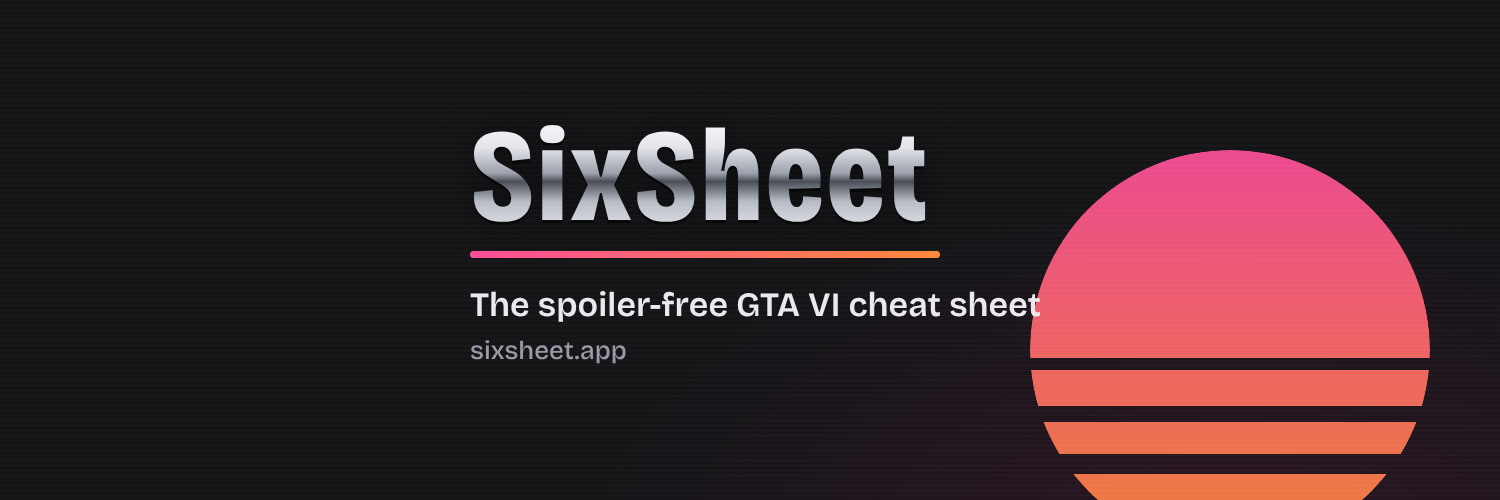
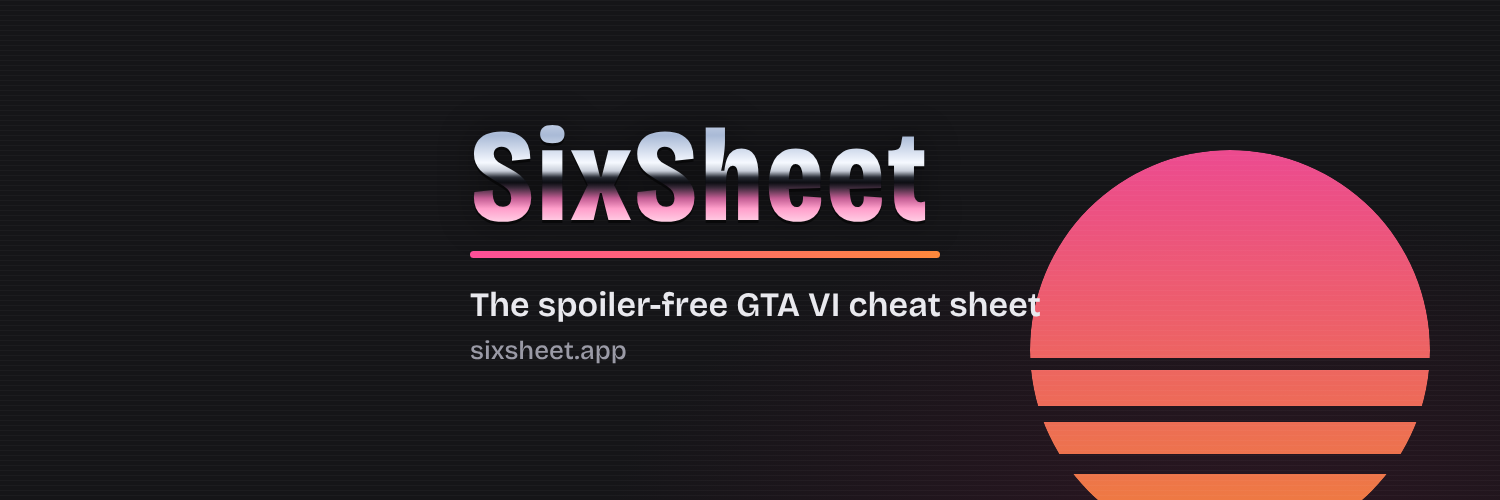
auditor: real chrome finish that reacts to scroll and hover
- Chrome gradient with sky, dark horizon and pink reflection, plus bevel
- Reflection slides as you scroll or move over the logo or countdown; glint sweep
- Brand images updated to the same chrome

Claude-Session: https://claude.ai/code/session_01UR4vkfQZzNAyaszMML9NGR

Changed region(s): [[0.3067, 0.24, 0.6133, 0.45]]

diff --git a/index.html b/index.html
@@ -27,8 +27,12 @@
   --pink:#ff4f9a;--orange:#ff8a3c;
   --sun:linear-gradient(100deg,#ff4f9a 0%,#ff6a6a 50%,#ff8a3c 100%);
   --chrome:linear-gradient(180deg,#ffffff 0%,#e3e5ea 28%,#9ba0ab 47%,#4a4e57 53%,#b9bdc6 68%,#f5f6f8 100%);
+  --chrome-hi:linear-gradient(180deg,#ffffff 0%,#eef3ff 12%,#a9bad6 30%,#f6f9ff 43%,#c7cdd8 47%,#262a33 50%,#0c0d12 52.5%,#3b2a3a 55%,#c25d93 60%,#ff9fcb 65%,#ffe3ef 74%,#ffffff 82%,#d9dde6 90%,#8e95a3 100%);
+  --glint:linear-gradient(105deg,transparent 40%,rgba(255,255,255,.0) 44%,rgba(255,255,255,.95) 50%,rgba(255,255,255,0) 56%,transparent 60%);
+  --cy:50%;
   --pad:20px;--bar:64px;
 }
+@property --gx{syntax:"<percentage>";inherits:false;initial-value:170%}
 *{box-sizing:border-box}
 html{-webkit-text-size-adjust:100%}
 body{margin:0;background:var(--paper);color:var(--ink);font:400 17px/1.45 "Bricolage",system-ui,-apple-system,"Segoe UI",sans-serif;padding-top:env(safe-area-inset-top)}
@@ -45,12 +49,14 @@ button{font:inherit;color:inherit;background:none;border:0;padding:0;cursor:poin
 /* ---------- frame ---------- */
 .page{position:relative;z-index:1;max-width:640px;margin:0 auto;padding:0 var(--pad) calc(var(--bar) + 40px + env(safe-area-inset-bottom))}
 .mast{display:flex;align-items:center;justify-content:space-between;gap:12px;padding:18px 0 6px}
-.mark{position:relative;display:inline-block;font-weight:800;font-stretch:75%;font-size:31px;line-height:1.05;letter-spacing:.005em;text-decoration:none;padding-bottom:9px;
-  color:#e3e5ea;background:linear-gradient(110deg,transparent 42%,rgba(255,255,255,.95) 50%,transparent 58%) 160% 0/250% 100% no-repeat,var(--chrome);
-  -webkit-background-clip:text;background-clip:text;-webkit-text-fill-color:transparent;filter:drop-shadow(0 1px 0 rgba(0,0,0,.6))}
-.mark::after{content:"";position:absolute;left:1px;right:1px;bottom:0;height:3px;border-radius:2px;background:var(--sun)}
-.mark:hover,.mark.glint{animation:glint 1.1s cubic-bezier(.3,.6,.3,1)}
-@keyframes glint{from{background-position:160% 0,0 0}to{background-position:-60% 0,0 0}}
+.chrome{background:var(--glint) var(--gx) 0/260% 100% no-repeat,var(--chrome-hi) 0 var(--cy)/100% 155% no-repeat;
+  -webkit-background-clip:text;background-clip:text;-webkit-text-fill-color:transparent;color:#e3e5ea;
+  filter:drop-shadow(0 -1px 0 rgba(255,255,255,.35)) drop-shadow(0 1.5px 0 #07080b) drop-shadow(0 0 14px rgba(255,79,154,.22));
+  transition:background-position .45s cubic-bezier(.2,.7,.2,1)}
+.chrome.glint{animation:glint .9s cubic-bezier(.3,.6,.3,1)}
+@keyframes glint{from{--gx:170%}to{--gx:-70%}}
+.mark{position:relative;display:inline-block;font-weight:800;font-stretch:75%;font-size:32px;line-height:1.05;letter-spacing:.01em;text-decoration:none;padding-bottom:9px}
+.mark::after{content:"";position:absolute;left:1px;right:1px;bottom:0;height:3px;border-radius:2px;background:var(--sun);box-shadow:0 0 10px rgba(255,79,154,.45)}
 .tools{display:flex;gap:6px}
 .tool{display:flex;align-items:center;gap:7px;height:38px;padding:0 10px;border:1.5px solid var(--line);border-radius:8px;font-size:14px;font-weight:600;color:var(--dim)}
 .tool svg{width:19px;height:19px;fill:none;stroke:currentColor;stroke-width:2;stroke-linecap:round;stroke-linejoin:round}
@@ -61,10 +67,10 @@ button{font:inherit;color:inherit;background:none;border:0;padding:0;cursor:poin
 /* ---------- hero ---------- */
 .hero{padding:22px 0 8px}
 .cd{display:flex;gap:.17em;font-variant-numeric:tabular-nums;font-size:clamp(46px,15.6vw,84px);font-weight:800;font-stretch:75%;line-height:.9;letter-spacing:-.01em}
-.cd b{display:inline-block;min-width:2ch;text-align:right;font-weight:inherit;background:var(--chrome);-webkit-background-clip:text;background-clip:text;-webkit-text-fill-color:transparent;color:#e3e5ea}
+.cd b{display:inline-block;min-width:2ch;text-align:right;font-weight:inherit}
 .cd span:first-child b{min-width:1ch}
 .cd i{font-style:normal;font-size:.36em;font-weight:600;color:var(--dim);margin-left:.07em}
-.cd .sec b{background:var(--sun);-webkit-background-clip:text;background-clip:text}
+.cd .sec b{background:var(--sun);-webkit-background-clip:text;background-clip:text;-webkit-text-fill-color:transparent;filter:drop-shadow(0 0 14px rgba(255,79,154,.3));animation:none}
 .cd-sub{margin:14px 0 14px;color:var(--dim)}
 .cd-sub strong{color:var(--ink);font-weight:600}
 .seg{display:inline-flex;border:1.5px solid var(--line);border-radius:8px;overflow:hidden}
@@ -254,7 +260,7 @@ body.shielded .sp:not(.open)>.spc{display:none}
 <div class="page">
   <aside class="rail">
     <header class="mast">
-      <a class="mark" id="mark" href="#prep" aria-label="SixSheet home">SixSheet</a>
+      <a class="mark chrome" id="mark" href="#prep" aria-label="SixSheet home">SixSheet</a>
       <div class="tools">
         <button class="tool" id="shield" type="button" aria-pressed="true"><svg viewBox="0 0 24 24" aria-hidden="true"><path d="M2.500 12s3.500-6.500 9.500-6.500 9.500 6.500 9.500 6.500-3.500 6.500-9.500 6.500S2.500 12 2.500 12z"/><circle cx="12" cy="12" r="2.800"/><path id="slash" d="M4 4l16 16"/></svg><span id="shieldLabel">Spoilers hidden</span></button>
         <button class="tool" id="share" type="button" aria-label="Copy link to this page"><svg viewBox="0 0 24 24" aria-hidden="true"><path d="M12 15V3.500M7.500 7.500L12 3l4.500 4.500M5 12.500V19a1.500 1.500 0 001.500 1.500h11A1.500 1.500 0 0019 19v-6.500"/></svg></button>
@@ -427,7 +433,7 @@ body.shielded .sp:not(.open)>.spc{display:none}
     var hasLocal = !!D.launch.localDate;
     h.innerHTML =
       '<div class="cd" role="timer" aria-label="Time until GTA VI unlocks">' +
-        '<span><b id="cd-d">0</b><i>d</i></span><span><b id="cd-h">00</b><i>h</i></span><span><b id="cd-m">00</b><i>m</i></span><span class="sec"><b id="cd-s">00</b><i>s</i></span>' +
+        '<span><b class="chrome" id="cd-d">0</b><i>d</i></span><span><b class="chrome" id="cd-h">00</b><i>h</i></span><span><b class="chrome" id="cd-m">00</b><i>m</i></span><span class="sec"><b id="cd-s">00</b><i>s</i></span>' +
       '</div>' +
       '<p class="cd-sub">until GTA VI unlocks. <strong id="cdWhen"></strong></p>' +
       (hasLocal ? '<div class="seg" id="region" role="group" aria-label="Where your account is"><button type="button" data-r="us">US account</button><button type="button" data-r="local">Elsewhere</button></div>' : '') +
@@ -683,12 +689,40 @@ body.shielded .sp:not(.open)>.spc{display:none}
     }
   }, true);
   window.addEventListener('hashchange', route);
-  var glintAt = 0, mk = $('mark');
-  mk.addEventListener('animationend', function(){ mk.classList.remove('glint'); });
-  window.addEventListener('scroll', function(){
-    var now = Date.now(); if (now - glintAt < 3000) return; glintAt = now;
-    mk.classList.remove('glint'); void mk.offsetWidth; mk.classList.add('glint');
-  }, {passive: true});
+  // chrome: the reflection slides as you scroll or move over it, and a glint sweeps across
+  var root = document.documentElement, glintAt = 0, raf = 0, reduce = false;
+  try { reduce = matchMedia('(prefers-reduced-motion: reduce)').matches; } catch (e) {}
+  function setCy(v){ root.style.setProperty('--cy', v.toFixed(1) + '%'); }
+  function glint(force){
+    var now = Date.now(); if (reduce || (!force && now - glintAt < 2500)) return; glintAt = now;
+    Array.prototype.forEach.call(document.querySelectorAll('.chrome'), function(el, i){
+      el.classList.remove('glint'); void el.offsetWidth;
+      setTimeout(function(){ el.classList.add('glint'); }, i * 70);
+    });
+  }
+  document.addEventListener('animationend', function(e){ if (e.target.classList && e.target.classList.contains('chrome')) e.target.classList.remove('glint'); });
+  if (!reduce) {
+    window.addEventListener('scroll', function(){
+      if (raf) return;
+      raf = requestAnimationFrame(function(){
+        raf = 0;
+        var t = (window.scrollY / 420) % 2, w = t < 1 ? t : 2 - t;   // back and forth
+        setCy(34 + w * 32);
+        glint(false);
+      });
+    }, {passive: true});
+    var mk = $('mark');
+    mk.addEventListener('pointerenter', function(){ glint(true); });
+    mk.addEventListener('pointermove', function(e){
+      var r = mk.getBoundingClientRect(); setCy(34 + Math.max(0, Math.min(1, (e.clientX - r.left) / r.width)) * 32);
+    });
+    var cdBox = $('hero');
+    cdBox.addEventListener('pointermove', function(e){
+      if (!e.target.closest('.cd')) return;
+      var r = cdBox.getBoundingClientRect(); setCy(34 + Math.max(0, Math.min(1, (e.clientX - r.left) / r.width)) * 32);
+    });
+    setTimeout(function(){ glint(true); }, 600);
+  }
 
   function renderAll(){
     renderPrep(); renderFit(); renderFacts(); renderGear();

diff --git a/tools/template.html b/tools/template.html
@@ -26,8 +26,12 @@
   --pink:#ff4f9a;--orange:#ff8a3c;
   --sun:linear-gradient(100deg,#ff4f9a 0%,#ff6a6a 50%,#ff8a3c 100%);
   --chrome:linear-gradient(180deg,#ffffff 0%,#e3e5ea 28%,#9ba0ab 47%,#4a4e57 53%,#b9bdc6 68%,#f5f6f8 100%);
+  --chrome-hi:linear-gradient(180deg,#ffffff 0%,#eef3ff 12%,#a9bad6 30%,#f6f9ff 43%,#c7cdd8 47%,#262a33 50%,#0c0d12 52.5%,#3b2a3a 55%,#c25d93 60%,#ff9fcb 65%,#ffe3ef 74%,#ffffff 82%,#d9dde6 90%,#8e95a3 100%);
+  --glint:linear-gradient(105deg,transparent 40%,rgba(255,255,255,.0) 44%,rgba(255,255,255,.95) 50%,rgba(255,255,255,0) 56%,transparent 60%);
+  --cy:50%;
   --pad:20px;--bar:64px;
 }
+@property --gx{syntax:"<percentage>";inherits:false;initial-value:170%}
 *{box-sizing:border-box}
 html{-webkit-text-size-adjust:100%}
 body{margin:0;background:var(--paper);color:var(--ink);font:400 17px/1.45 "Bricolage",system-ui,-apple-system,"Segoe UI",sans-serif;padding-top:env(safe-area-inset-top)}
@@ -44,12 +48,14 @@ button{font:inherit;color:inherit;background:none;border:0;padding:0;cursor:poin
 /* ---------- frame ---------- */
 .page{position:relative;z-index:1;max-width:640px;margin:0 auto;padding:0 var(--pad) calc(var(--bar) + 40px + env(safe-area-inset-bottom))}
 .mast{display:flex;align-items:center;justify-content:space-between;gap:12px;padding:18px 0 6px}
-.mark{position:relative;display:inline-block;font-weight:800;font-stretch:75%;font-size:31px;line-height:1.05;letter-spacing:.005em;text-decoration:none;padding-bottom:9px;
-  color:#e3e5ea;background:linear-gradient(110deg,transparent 42%,rgba(255,255,255,.95) 50%,transparent 58%) 160% 0/250% 100% no-repeat,var(--chrome);
-  -webkit-background-clip:text;background-clip:text;-webkit-text-fill-color:transparent;filter:drop-shadow(0 1px 0 rgba(0,0,0,.6))}
-.mark::after{content:"";position:absolute;left:1px;right:1px;bottom:0;height:3px;border-radius:2px;background:var(--sun)}
-.mark:hover,.mark.glint{animation:glint 1.1s cubic-bezier(.3,.6,.3,1)}
-@keyframes glint{from{background-position:160% 0,0 0}to{background-position:-60% 0,0 0}}
+.chrome{background:var(--glint) var(--gx) 0/260% 100% no-repeat,var(--chrome-hi) 0 var(--cy)/100% 155% no-repeat;
+  -webkit-background-clip:text;background-clip:text;-webkit-text-fill-color:transparent;color:#e3e5ea;
+  filter:drop-shadow(0 -1px 0 rgba(255,255,255,.35)) drop-shadow(0 1.5px 0 #07080b) drop-shadow(0 0 14px rgba(255,79,154,.22));
+  transition:background-position .45s cubic-bezier(.2,.7,.2,1)}
+.chrome.glint{animation:glint .9s cubic-bezier(.3,.6,.3,1)}
+@keyframes glint{from{--gx:170%}to{--gx:-70%}}
+.mark{position:relative;display:inline-block;font-weight:800;font-stretch:75%;font-size:32px;line-height:1.05;letter-spacing:.01em;text-decoration:none;padding-bottom:9px}
+.mark::after{content:"";position:absolute;left:1px;right:1px;bottom:0;height:3px;border-radius:2px;background:var(--sun);box-shadow:0 0 10px rgba(255,79,154,.45)}
 .tools{display:flex;gap:6px}
 .tool{display:flex;align-items:center;gap:7px;height:38px;padding:0 10px;border:1.5px solid var(--line);border-radius:8px;font-size:14px;font-weight:600;color:var(--dim)}
 .tool svg{width:19px;height:19px;fill:none;stroke:currentColor;stroke-width:2;stroke-linecap:round;stroke-linejoin:round}
@@ -60,10 +66,10 @@ button{font:inherit;color:inherit;background:none;border:0;padding:0;cursor:poin
 /* ---------- hero ---------- */
 .hero{padding:22px 0 8px}
 .cd{display:flex;gap:.17em;font-variant-numeric:tabular-nums;font-size:clamp(46px,15.6vw,84px);font-weight:800;font-stretch:75%;line-height:.9;letter-spacing:-.01em}
-.cd b{display:inline-block;min-width:2ch;text-align:right;font-weight:inherit;background:var(--chrome);-webkit-background-clip:text;background-clip:text;-webkit-text-fill-color:transparent;color:#e3e5ea}
+.cd b{display:inline-block;min-width:2ch;text-align:right;font-weight:inherit}
 .cd span:first-child b{min-width:1ch}
 .cd i{font-style:normal;font-size:.36em;font-weight:600;color:var(--dim);margin-left:.07em}
-.cd .sec b{background:var(--sun);-webkit-background-clip:text;background-clip:text}
+.cd .sec b{background:var(--sun);-webkit-background-clip:text;background-clip:text;-webkit-text-fill-color:transparent;filter:drop-shadow(0 0 14px rgba(255,79,154,.3));animation:none}
 .cd-sub{margin:14px 0 14px;color:var(--dim)}
 .cd-sub strong{color:var(--ink);font-weight:600}
 .seg{display:inline-flex;border:1.5px solid var(--line);border-radius:8px;overflow:hidden}
@@ -253,7 +259,7 @@ body.shielded .sp:not(.open)>.spc{display:none}
 <div class="page">
   <aside class="rail">
     <header class="mast">
-      <a class="mark" id="mark" href="#prep" aria-label="SixSheet home">SixSheet</a>
+      <a class="mark chrome" id="mark" href="#prep" aria-label="SixSheet home">SixSheet</a>
       <div class="tools">
         <button class="tool" id="shield" type="button" aria-pressed="true"><svg viewBox="0 0 24 24" aria-hidden="true"><path d="M2.500 12s3.500-6.500 9.500-6.500 9.500 6.500 9.500 6.500-3.500 6.500-9.500 6.500S2.500 12 2.500 12z"/><circle cx="12" cy="12" r="2.800"/><path id="slash" d="M4 4l16 16"/></svg><span id="shieldLabel">Spoilers hidden</span></button>
         <button class="tool" id="share" type="button" aria-label="Copy link to this page"><svg viewBox="0 0 24 24" aria-hidden="true"><path d="M12 15V3.500M7.500 7.500L12 3l4.500 4.500M5 12.500V19a1.500 1.500 0 001.500 1.500h11A1.500 1.500 0 0019 19v-6.500"/></svg></button>
@@ -426,7 +432,7 @@ body.shielded .sp:not(.open)>.spc{display:none}
     var hasLocal = !!D.launch.localDate;
     h.innerHTML =
       '<div class="cd" role="timer" aria-label="Time until GTA VI unlocks">' +
-        '<span><b id="cd-d">0</b><i>d</i></span><span><b id="cd-h">00</b><i>h</i></span><span><b id="cd-m">00</b><i>m</i></span><span class="sec"><b id="cd-s">00</b><i>s</i></span>' +
+        '<span><b class="chrome" id="cd-d">0</b><i>d</i></span><span><b class="chrome" id="cd-h">00</b><i>h</i></span><span><b class="chrome" id="cd-m">00</b><i>m</i></span><span class="sec"><b id="cd-s">00</b><i>s</i></span>' +
       '</div>' +
       '<p class="cd-sub">until GTA VI unlocks. <strong id="cdWhen"></strong></p>' +
       (hasLocal ? '<div class="seg" id="region" role="group" aria-label="Where your account is"><button type="button" data-r="us">US account</button><button type="button" data-r="local">Elsewhere</button></div>' : '') +
@@ -682,12 +688,40 @@ body.shielded .sp:not(.open)>.spc{display:none}
     }
   }, true);
   window.addEventListener('hashchange', route);
-  var glintAt = 0, mk = $('mark');
-  mk.addEventListener('animationend', function(){ mk.classList.remove('glint'); });
-  window.addEventListener('scroll', function(){
-    var now = Date.now(); if (now - glintAt < 3000) return; glintAt = now;
-    mk.classList.remove('glint'); void mk.offsetWidth; mk.classList.add('glint');
-  }, {passive: true});
+  // chrome: the reflection slides as you scroll or move over it, and a glint sweeps across
+  var root = document.documentElement, glintAt = 0, raf = 0, reduce = false;
+  try { reduce = matchMedia('(prefers-reduced-motion: reduce)').matches; } catch (e) {}
+  function setCy(v){ root.style.setProperty('--cy', v.toFixed(1) + '%'); }
+  function glint(force){
+    var now = Date.now(); if (reduce || (!force && now - glintAt < 2500)) return; glintAt = now;
+    Array.prototype.forEach.call(document.querySelectorAll('.chrome'), function(el, i){
+      el.classList.remove('glint'); void el.offsetWidth;
+      setTimeout(function(){ el.classList.add('glint'); }, i * 70);
+    });
+  }
+  document.addEventListener('animationend', function(e){ if (e.target.classList && e.target.classList.contains('chrome')) e.target.classList.remove('glint'); });
+  if (!reduce) {
+    window.addEventListener('scroll', function(){
+      if (raf) return;
+      raf = requestAnimationFrame(function(){
+        raf = 0;
+        var t = (window.scrollY / 420) % 2, w = t < 1 ? t : 2 - t;   // back and forth
+        setCy(34 + w * 32);
+        glint(false);
+      });
+    }, {passive: true});
+    var mk = $('mark');
+    mk.addEventListener('pointerenter', function(){ glint(true); });
+    mk.addEventListener('pointermove', function(e){
+      var r = mk.getBoundingClientRect(); setCy(34 + Math.max(0, Math.min(1, (e.clientX - r.left) / r.width)) * 32);
+    });
+    var cdBox = $('hero');
+    cdBox.addEventListener('pointermove', function(e){
+      if (!e.target.closest('.cd')) return;
+      var r = cdBox.getBoundingClientRect(); setCy(34 + Math.max(0, Math.min(1, (e.clientX - r.left) / r.width)) * 32);
+    });
+    setTimeout(function(){ glint(true); }, 600);
+  }
 
   function renderAll(){
     renderPrep(); renderFit(); renderFacts(); renderGear();
